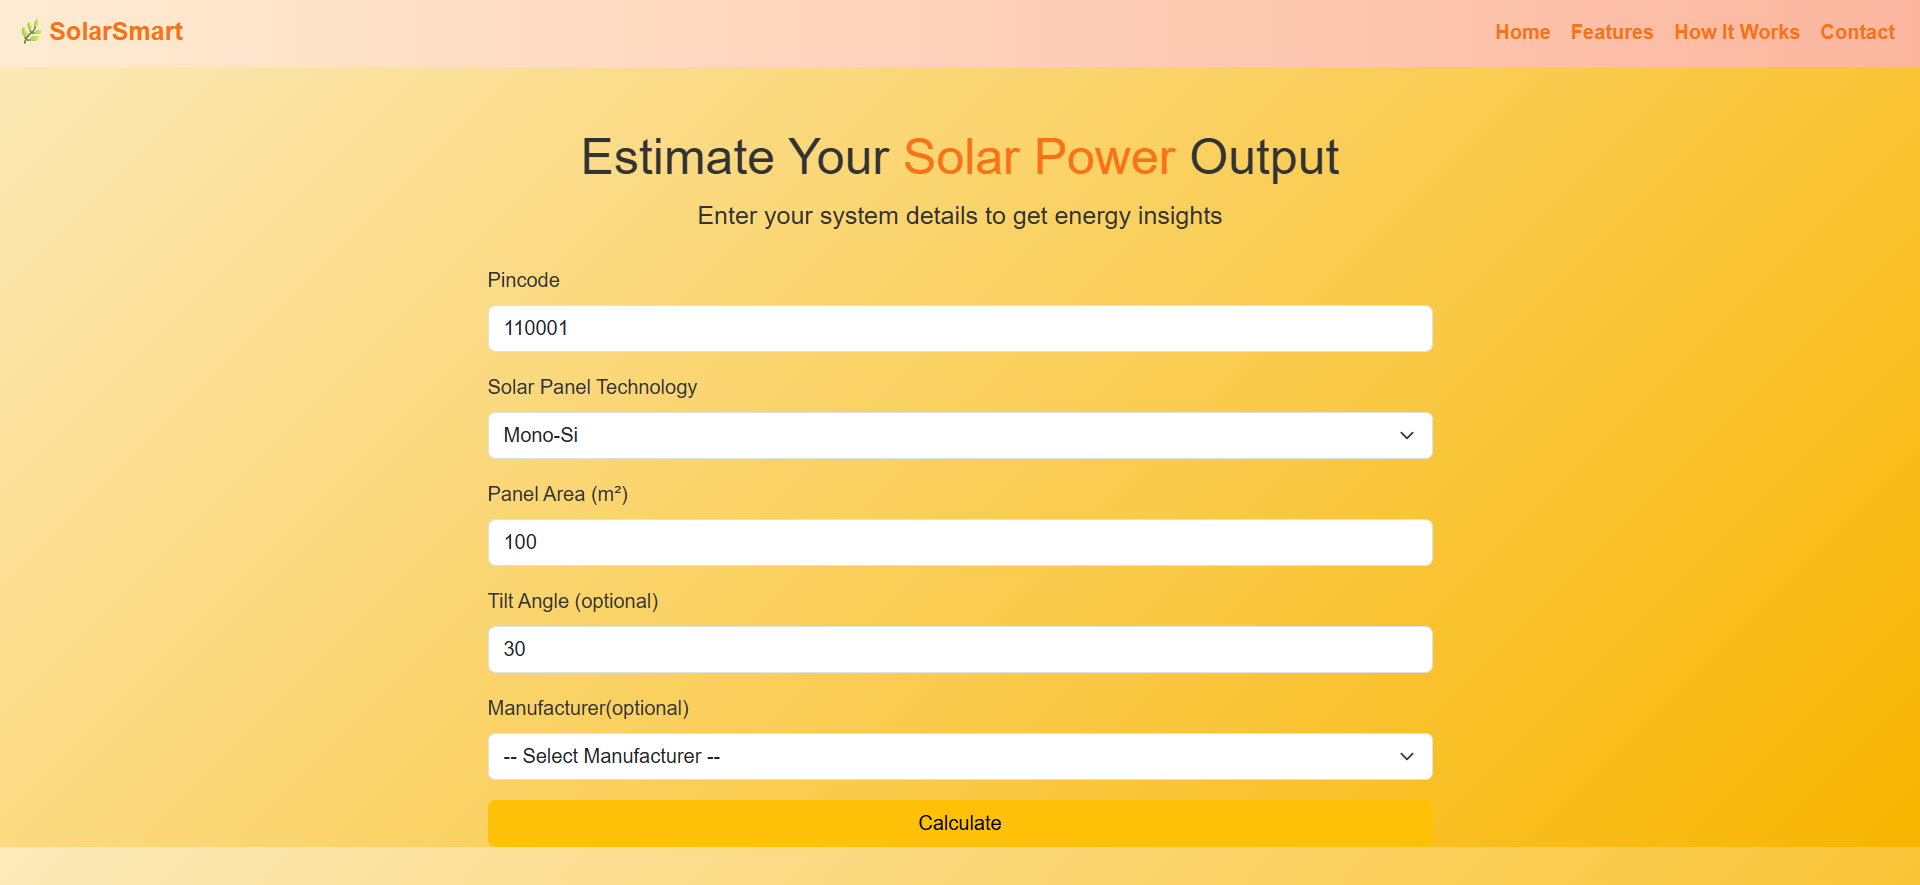
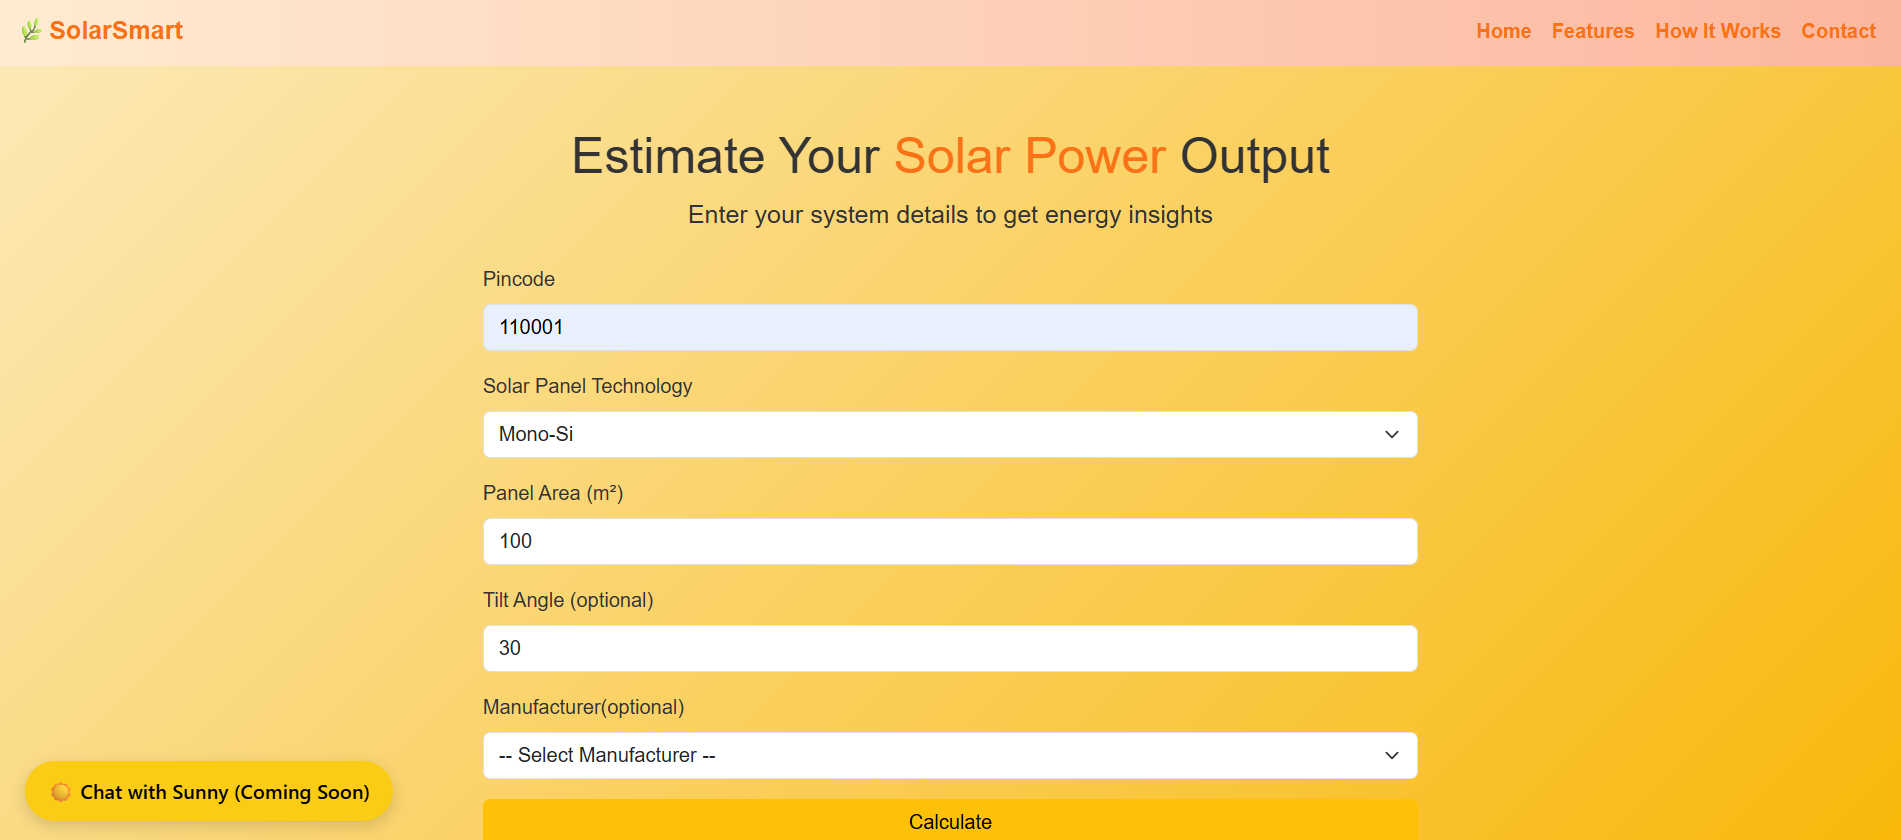
Added webpages for navigatioin and information. Updated the README file
Added some information about the project and features and how it works updated the readme file and mentioned the problem faced with the integration of the chatbot.

diff --git a/templates/howItWorks.html b/templates/howItWorks.html
@@ -1,0 +1,92 @@
+<!DOCTYPE html>
+<html lang="en">
+<head>
+  <meta charset="UTF-8" />
+  <meta name="viewport" content="width=device-width, initial-scale=1" />
+  <title>How SolarSmart Works</title>
+  <link rel="stylesheet" href="https://cdnjs.cloudflare.com/ajax/libs/bootstrap/5.3.0/css/bootstrap.min.css" />
+  <link rel="stylesheet" href="static/styles.css" />
+</head>
+<body>
+  <!-- Navigation Bar -->
+  <nav class="navbar navbar-expand-lg navbar-light">
+    <div class="container-fluid">
+      <a class="navbar-brand fw-bold" href="index.html">🌿SolarSmart</a>
+      <button class="navbar-toggler" type="button" data-bs-toggle="collapse" data-bs-target="#navbarNav">
+        <span class="navbar-toggler-icon"></span>
+      </button>
+      <div class="collapse navbar-collapse" id="navbarNav">
+        <ul class="navbar-nav ms-auto fw-semibold">
+          <li class="nav-item"><a class="nav-link" href="/">Home</a></li>
+          <li class="nav-item"><a class="nav-link" href="/features">Features</a></li>
+          <li class="nav-item"><a class="nav-link active" href="/howItWorks">How It Works</a></li>
+          <li class="nav-item"><a class="nav-link" href="/">Contact</a></li>
+        </ul>
+      </div>
+    </div>
+  </nav>
+
+  <!-- Header Section -->
+  <div class="container mt-5 text-center">
+    <h1 class="animate-heading mb-3">🔍 How <span style="color:#f97316">SolarSmart</span> Works</h1>
+    <p class="lead">Understand the inner workings of our intelligent solar energy predictor</p>
+  </div>
+
+  <!-- Working Steps -->
+  <div class="container mt-4">
+    <div class="row">
+      <div class="col-md-6 mb-4">
+        <div class="card fade-in">
+          <div class="card-header bg-success text-white">Step 1: User Input</div>
+          <div class="card-body">
+            <p>You enter your location pincode, solar panel technology, area, and optionally tilt and manufacturer details on the homepage form.</p>
+          </div>
+        </div>
+      </div>
+
+      <div class="col-md-6 mb-4">
+        <div class="card fade-in">
+          <div class="card-header bg-warning text-dark">Step 2: Live Weather Fetching</div>
+          <div class="card-body">
+            <p>We query NASA POWER and OpenStreetMap APIs to fetch live solar irradiance, temperature, and wind speed for your location.</p>
+          </div>
+        </div>
+      </div>
+
+      <div class="col-md-6 mb-4">
+        <div class="card fade-in">
+          <div class="card-header bg-info text-white">Step 3: ML Model Prediction</div>
+          <div class="card-body">
+            <p>The model uses a Random Forest Regressor trained on global datasets to estimate your solar energy production using GHI, weather, and time features.</p>
+          </div>
+        </div>
+      </div>
+
+      <div class="col-md-6 mb-4">
+        <div class="card fade-in">
+          <div class="card-header bg-danger text-white">Step 4: Performance Adjustment</div>
+          <div class="card-body">
+            <p>Adjustments are made using a performance factor based on your chosen panel material and manufacturer for improved accuracy.</p>
+          </div>
+        </div>
+      </div>
+
+      <div class="col-md-12 mb-4">
+        <div class="card fade-in">
+          <div class="card-header bg-dark text-white">Step 5: Visualization</div>
+          <div class="card-body">
+            <p>You'll receive your current output, daily average, monthly and yearly generation, along with money saved, and two animated charts for last month and 10-day forecast.</p>
+          </div>
+        </div>
+      </div>
+    </div>
+  </div>
+
+  <!-- Coming Soon -->
+  <div class="container text-center mb-5">
+    <p class="fs-5">✨ Stay tuned! A chatbot named <strong>Sunny</strong> is coming soon to answer your solar queries.</p>
+  </div>
+  <button id="sunnyChat" title="Chat with Sunny">☀ Chat with Sunny (Coming Soon)</button>
+  <script src="https://cdn.jsdelivr.net/npm/bootstrap@5.3.0/dist/js/bootstrap.bundle.min.js"></script>
+</body>
+</html>

diff --git a/templates/features.html b/templates/features.html
@@ -1,0 +1,69 @@
+<!DOCTYPE html>
+<html lang="en">
+<head>
+  <meta charset="UTF-8" />
+  <meta name="viewport" content="width=device-width, initial-scale=1" />
+  <title>Features | SolarSmart</title>
+  <link rel="stylesheet" href="https://cdnjs.cloudflare.com/ajax/libs/bootstrap/5.3.0/css/bootstrap.min.css" />
+  <link rel="stylesheet" href="static/styles.css" />
+</head>
+<body>
+  <!-- Navbar -->
+  <nav class="navbar navbar-expand-lg navbar-light">
+    <div class="container-fluid">
+      <a class="navbar-brand fw-bold" href="index.html">🌿SolarSmart</a>
+      <button class="navbar-toggler" type="button" data-bs-toggle="collapse" data-bs-target="#navbarNav">
+        <span class="navbar-toggler-icon"></span>
+      </button>
+      <div class="collapse navbar-collapse" id="navbarNav">
+        <ul class="navbar-nav ms-auto fw-semibold">
+          <li class="nav-item"><a class="nav-link" href="/">Home</a></li>
+          <li class="nav-item"><a class="nav-link active" href="/features">Features</a></li>
+          <li class="nav-item"><a class="nav-link" href="/howItWorks">How It Works</a></li>
+          <li class="nav-item"><a class="nav-link" href="/">Contact</a></li>
+        </ul>
+      </div>
+    </div>
+  </nav>
+
+  <!-- Features Section -->
+  <div class="container mt-5 text-center">
+    <h1 class="animate-heading mb-4">🔆 Project <span style="color:#f97316">Features</span></h1>
+    <p class="lead">Explore what makes SolarSmart intelligent and user-friendly!</p>
+
+    <div class="row mt-5">
+      <div class="col-md-6">
+        <div class="feature-box">
+          <h4>⚡ Live Weather-Driven Power Prediction</h4>
+          <p>Using NASA POWER and OpenStreetMap APIs, we fetch weather data dynamically based on user pincode.</p>
+        </div>
+        <div class="feature-box mt-4">
+          <h4>🔍 Panel Technology Customization</h4>
+          <p>Supports 15+ modern solar technologies and manufacturers for accurate results.</p>
+        </div>
+        <div class="feature-box mt-4">
+          <h4>📈 Daily, Monthly, and Yearly Analytics</h4>
+          <p>Clear insights into current, forecasted, and historical energy generation in kWh.</p>
+        </div>
+      </div>
+
+      <div class="col-md-6">
+        <div class="feature-box">
+          <h4>💰 Savings Estimation</h4>
+          <p>Calculates potential money saved annually based on electricity tariffs.</p>
+        </div>
+        <div class="feature-box mt-4">
+          <h4>📊 Charts and Visualization</h4>
+          <p>Clean, dynamic charts rendered using Chart.js to visualize solar output trends.</p>
+        </div>
+        <div class="feature-box mt-4">
+          <h4>🤖 Chatbot Assistant (Coming Soon)</h4>
+          <p>We’re integrating “Sunny”, your friendly solar guide — stay tuned!</p>
+        </div>
+      </div>
+    </div>
+  </div>
+  <button id="sunnyChat" title="Chat with Sunny">☀ Chat with Sunny (Coming Soon)</button>
+  <script src="https://cdn.jsdelivr.net/npm/bootstrap@5.3.0/dist/js/bootstrap.bundle.min.js"></script>
+</body>
+</html>

diff --git a/templates/results.html b/templates/results.html
@@ -5,15 +5,35 @@
   <meta name="viewport" content="width=device-width, initial-scale=1" />
   <title>SolarSmart Results</title>
   <link rel="stylesheet" href="https://cdnjs.cloudflare.com/ajax/libs/bootstrap/5.3.0/css/bootstrap.min.css" />
-  <link rel="stylesheet" href="{{ url_for('static', filename='styles.css') }}">
-
+  <link rel="stylesheet" href="static/styles.css">
 </head>
 <body>
+
+  <!-- ✅ Navbar -->
+  <nav class="navbar navbar-expand-lg navbar-light">
+    <div class="container-fluid">
+      <a class="navbar-brand fw-bold" href="index.html">🌿SolarSmart</a>
+      <button class="navbar-toggler" type="button" data-bs-toggle="collapse" data-bs-target="#navbarNav">
+        <span class="navbar-toggler-icon"></span>
+      </button>
+      <div class="collapse navbar-collapse" id="navbarNav">
+        <ul class="navbar-nav ms-auto fw-semibold">
+          <li class="nav-item"><a class="nav-link" href="/">Home</a></li>
+          <li class="nav-item"><a class="nav-link" href="/features">Features</a></li>
+          <li class="nav-item"><a class="nav-link" href="/howItWorks">How It Works</a></li>
+          <li class="nav-item"><a class="nav-link" href="/">Contact</a></li>
+        </ul>
+      </div>
+    </div>
+  </nav>
+
+  <!-- Results Header -->
   <div class="container mt-5 text-center">
     <h1 class="animate-heading mb-4">Your <span style="color:#f97316">Solar Power</span> Estimation Results</h1>
     <a href="index.html" class="btn btn-secondary mb-4">← Back to Input</a>
   </div>
 
+  <!-- Output Section -->
   <div class="container output-section" id="output">
     <div class="row">
       <div class="col-md-6">
@@ -54,10 +74,12 @@
     </div>
   </div>
 
+  <!-- Sunny Chat Button -->
+  <button id="sunnyChat" title="Chat with Sunny">☀ Chat with Sunny (Coming Soon)</button>
+
   <!-- Scripts -->
   <script src="https://code.jquery.com/jquery-3.6.0.min.js"></script>
   <script src="https://cdn.jsdelivr.net/npm/chart.js"></script>
-  <script src="{{ url_for('static', filename='results.js') }}"></script>
-
+  <script src="static/results.js"></script>
 </body>
 </html>

diff --git a/templates/index.html b/templates/index.html
@@ -22,9 +22,9 @@
           <div class="collapse navbar-collapse" id="navbarNav">
             <ul class="navbar-nav ms-auto fw-semibold">
               <li class="nav-item"><a class="nav-link" href="#">Home</a></li>
-              <li class="nav-item"><a class="nav-link" href="#solarForm">Features</a></li>
-              <li class="nav-item"><a class="nav-link" href="#howItWorks">How It Works</a></li>
-              <li class="nav-item"><a class="nav-link" href="#contact">Contact</a></li>
+              <li class="nav-item"><a class="nav-link" href="/features">Features</a></li>
+              <li class="nav-item"><a class="nav-link" href="/howItWorks">How It Works</a></li>
+              <li class="nav-item"><a class="nav-link" href="/">Contact</a></li>
             </ul>
           </div>
         </div>
@@ -102,6 +102,7 @@
     </div>
     <p class="mt-2">Calculating solar prediction...</p>
   </div>
+  <button id="sunnyChat" title="Chat with Sunny">☀ Chat with Sunny (Coming Soon)</button>
 
    <!--Adding  JavaScript for Form handling -->
    <script src="https://code.jquery.com/jquery-3.6.0.min.js"></script>

diff --git a/static/styles.css b/static/styles.css
@@ -94,3 +94,24 @@ color:#333 ;
     border: none;
     border-radius: 5px;
 }
+
+#sunnyChat {
+  position: fixed;
+  bottom: 20px;
+  left: 20px;
+  background-color: #facc15; 
+  color: #000;
+  padding: 12px 18px;
+  border-radius: 50px;
+  font-weight: 600;
+  font-family: 'Segoe UI', sans-serif;
+  box-shadow: 0 4px 12px rgba(0, 0, 0, 0.15);
+  border: none;
+  cursor: not-allowed;
+  z-index: 999;
+  transition: transform 0.3s ease;
+}
+
+#sunnyChat:hover {
+  transform: scale(1.05);
+}

diff --git a/app.py b/app.py
@@ -10,6 +10,15 @@ CORS(app)
 def home():
     return render_template("index.html")
 
+@app.route("/features")
+def features():
+    return render_template("features.html")
+
+@app.route("/howItWorks")
+def how_it_works():
+    return render_template("howItWorks.html")
+
+
 @app.route("/results")
 def results_page():
     return render_template("results.html")

diff --git a/README.md b/README.md
@@ -1,3 +1,4 @@
+
 # SolarSmart: Smart Solar Output Estimation System
 
 _Developed for HACKORBIT 2025 — Solar Energy Optimization Track_
@@ -19,7 +20,8 @@ India has vast untapped solar potential, but most users lack accessible tools to
 - Predict energy output using a trained machine learning model
 - View real-time estimates for current power, daily, monthly, and yearly energy generation
 - Interactive charts showing historical performance and short-term forecasts
-- Ongoing development of a chatbot assistant for user interaction
+- Animated UI with responsive design
+- ⚡ Chatbot integration in progress (see below)
 
 ---
 
@@ -29,7 +31,7 @@ India has vast untapped solar potential, but most users lack accessible tools to
 - **Backend**: Flask
 - **Machine Learning**: Random Forest Regressor (trained using scikit-learn)
 - **APIs**: NASA POWER API, OpenStreetMap (for geolocation)
-- **Chatbot (in progress)**: Langchain, LLMs, RetrievalQA
+- **Chatbot (in progress)**: Langchain, LLMs, FAISS vectorstore, HuggingFace embeddings
 
 ---
 
@@ -69,12 +71,12 @@ The model is trained on more than 15 combined datasets, including:
 - Actual solar power generation (`Power(MW)`)
 - Corresponding weather data
 
-**Folder**: `Datasets/`  
-**Example files**:
+📁 **Folder**: `Datasets/`  
+📂 **Example files**:
 - `Actual_UPV_Hourly_30.45_-88.25_2006.csv`
-- `*_weather.csv`
+- `Actual_UPV_hourly_32.05_-103.75_2006_weather.csv`
 
-**Sources**: Public datasets from NREL and NASA POWER
+**Source**: Public datasets from [NREL](https://www.nrel.gov/grid/solar-power-data.html) and NASA POWER
 
 ---
 
@@ -97,7 +99,7 @@ Before running predictions, you need to train the model using:
 python main.py
 ```
 
-This will generate the following files:
+This will generate the following files in your working directory:
 - `trained_model.pkl`
 - `scaler.pkl`
 
@@ -120,48 +122,28 @@ This project is submitted as a working prototype for HACKORBIT 2025. Core functi
 - Full-stack integration of machine learning with Flask backend
 - Visual output through charts and responsive UI
 
-Chatbot integration is currently in progress and partially functional.
-
 ---
 
 ## Authors — Team We Bare Bugs
 
-- **Sarvesh Sapkal** — Backend development, machine learning model training
-- **Shalvi Maheshwari** — Chatbot integration, backend-frontend integration
-- **Laukika Shinde** — Frontend design, data processing
+- 🧠 **Sarvesh Sapkal** — Backend development, machine learning model training
+- 🧩 **Shalvi Maheshwari** — Chatbot integration, backend-frontend integration
+- 🎨 **Laukika Shinde** — Frontend design, data processing
+
+---
+
+## ⚠ Chatbot Integration Notice
+
+The chatbot (Sunny) is under development and currently **not active** in the live interface. This is because:
+
+> ❗ We require a **personal Groq API key** for integration with Langchain's `ChatGroq` (LLaMA3).
+
+We are actively exploring **alternative integration methods** to support chatbot features **without API key restrictions**, aiming for a smooth and public-compatible implementation.
+
+Until then, you will see a "Coming Soon" badge for the chatbot.
 
 ---
 
 ## License
 
-This project is intended for academic and research use.
-
----
-
-## 🤖 Chatbot Setup Summary
-
-The chatbot in this project is designed to assist users with queries related to solar power prediction by referencing a custom knowledge base.
-
-### ✅ What We Did
-
-- Developed the main chatbot logic in `chatbot.py`, integrating with a local knowledge base containing relevant documentation.
-- Utilized Langchain for prompt handling, retrieval-based QA, and memory management.
-- Embedded documents using HuggingFace embeddings and stored them in a ChromaDB vector store for fast semantic search.
-- Configured Flask with Flask-CORS to serve the chatbot API and enable frontend communication.
-
-### 📦 Note on Dependencies
-
-Due to GitHub’s file size limitations, we have not committed the full set of dependencies (which exceed 100 MB) to the repository. To run the chatbot locally, please ensure the following:
-
-1. Create a virtual environment:
-   ```bash
-   python -m venv venv
-   source venv/bin/activate  # or venv\Scripts\activate on Windows
-   ```
-
-2. Install required packages manually using:
-   ```bash
-   pip install -r requirements.txt
-   ```
-
-Make sure you have GPU/CPU capacity and RAM to run embeddings locally.
+This project is intended for academic and research use only.
